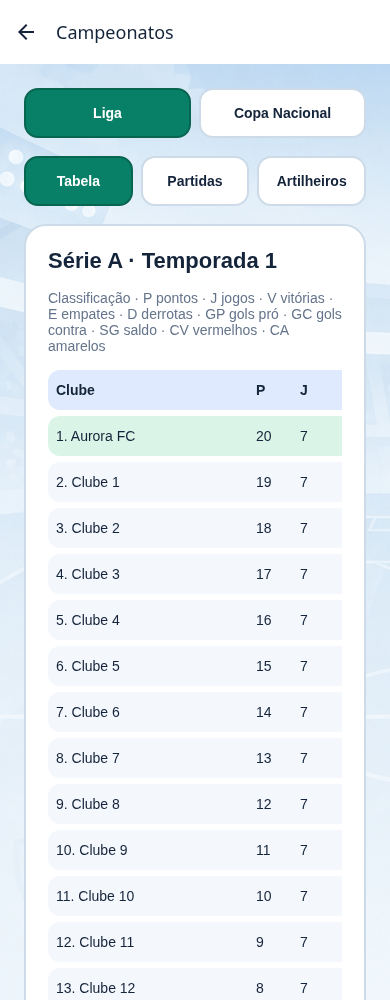
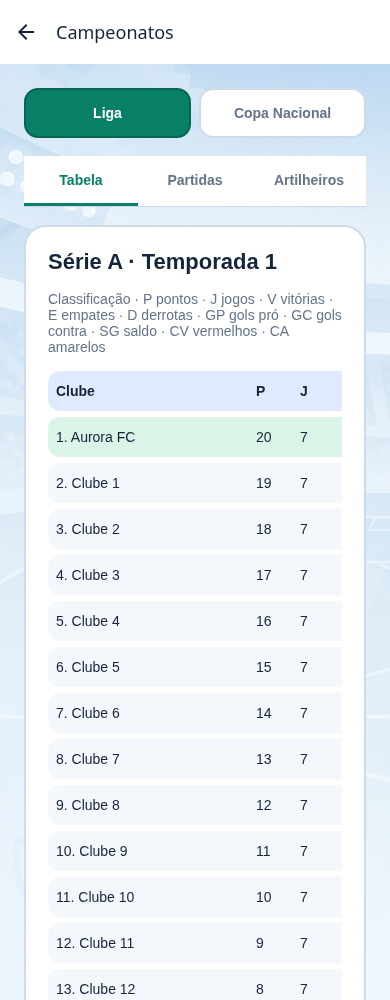
Use underlined competition tabs for v1.0.0.17

diff --git a/mobile/src/screens/CompetitionsScreen.tsx b/mobile/src/screens/CompetitionsScreen.tsx
@@ -8,8 +8,21 @@ import { cupService, Cup } from '../services/cupService';
 import { useClubStore } from '../stores/clubStore';
 import { ActionButton, Card, GamePage, palette, useAction } from '../components/GameUI';
 import { CompetitionStatistics } from '../components/CompetitionStatistics';
-function Tabs({ values, selected, onChange, disabled = false }: { values: string[]; selected: string; onChange: (value: string) => void; disabled?: boolean }) {
-  return <View style={{ flexDirection: 'row', gap: 8 }}>{values.map(value => <Pressable key={value} accessibilityRole="button" accessibilityState={{ selected: selected === value, disabled }} disabled={disabled} onPress={() => onChange(value)} style={{ flex: 1, minHeight: 50, paddingHorizontal: 4, borderRadius: 14, alignItems: 'center', justifyContent: 'center', backgroundColor: selected === value ? palette.primary : '#fff', borderWidth: 2, borderColor: selected === value ? '#086550' : palette.border }}><Text style={{ fontWeight: '700', color: selected === value ? '#fff' : palette.ink, textAlign: 'center' }}>{value}</Text></Pressable>)}</View>;
+function Tabs({ values, selected, onChange, disabled = false, buttons = false }: { values: string[]; selected: string; onChange: (value: string) => void; disabled?: boolean; buttons?: boolean }) {
+  return <View accessibilityRole={buttons ? undefined : 'tablist'} style={{ flexDirection: 'row', gap: buttons ? 8 : 0, backgroundColor: buttons ? 'transparent' : '#fff', borderBottomWidth: buttons ? 0 : 1, borderBottomColor: palette.border }}>
+    {values.map(value => {
+      const active = selected === value;
+      return <Pressable key={value} accessibilityRole={buttons ? 'button' : 'tab'} accessibilityState={{ selected: active, disabled }} disabled={disabled} onPress={() => onChange(value)} style={{
+        flex: 1, minHeight: 50, paddingHorizontal: 4, alignItems: 'center', justifyContent: 'center',
+        borderRadius: buttons ? 14 : 0,
+        backgroundColor: buttons && active ? palette.primary : '#fff',
+        borderWidth: buttons ? 2 : 0,
+        borderColor: buttons && active ? '#086550' : palette.border,
+        borderBottomWidth: buttons ? 2 : 3,
+        borderBottomColor: buttons ? active ? '#086550' : palette.border : active ? palette.primary : 'transparent',
+      }}><Text style={{ fontWeight: active ? '800' : '600', color: buttons && active ? '#fff' : active ? palette.primary : palette.muted, textAlign: 'center' }}>{value}</Text></Pressable>;
+    })}
+  </View>;
 }
 export function CompetitionsScreen({ navigation }: NativeStackScreenProps<RootStackParamList, 'Competitions'>) {
   const [kind, setKind] = useState<'league' | 'cup'>('league'), [league, setLeague] = useState<Competition | null>(null), [cup, setCup] = useState<Cup | null>(null), [matches, setMatches] = useState<CompetitionMatch[]>([]);
@@ -22,7 +35,7 @@ export function CompetitionsScreen({ navigation }: NativeStackScreenProps<RootSt
   }); }, [kind, run]);
   const columns = [{ title: 'Clube', width: 200 }, ...['P', 'J', 'V', 'E', 'D', 'GP', 'GC', 'SG', 'CV', 'CA'].map(title => ({ title, width: 44 }))];
   return <GamePage loading={action.busy} error={action.error}>
-    <Tabs disabled={action.busy} values={['Liga', 'Copa Nacional']} selected={kind === 'league' ? 'Liga' : 'Copa Nacional'} onChange={label => { setKind(label === 'Liga' ? 'league' : 'cup'); setTab('Tabela'); }} />
+    <Tabs buttons disabled={action.busy} values={['Liga', 'Copa Nacional']} selected={kind === 'league' ? 'Liga' : 'Copa Nacional'} onChange={label => { setKind(label === 'Liga' ? 'league' : 'cup'); setTab('Tabela'); }} />
     <Tabs values={['Tabela', 'Partidas', 'Artilheiros']} selected={tab} onChange={setTab} />
     {tab === 'Tabela' && kind === 'league' && league && <Card><Text style={{ fontSize: 22, fontWeight: '800', color: palette.ink }}>Série {league.division.name} · Temporada {league.season.number}</Text><Text style={{ color: palette.muted }}>Classificação · P pontos · J jogos · V vitórias · E empates · D derrotas · GP gols pró · GC gols contra · SG saldo · CV vermelhos · CA amarelos</Text>
       <ScrollView horizontal><View style={{ gap: 6 }}><View style={{ flexDirection: 'row', backgroundColor: '#e0eafe', borderRadius: 12, paddingVertical: 12 }}>{columns.map(column => <Text key={column.title} style={{ width: column.width, paddingHorizontal: 8, fontWeight: '800', color: palette.ink }}>{column.title}</Text>)}</View>

diff --git a/mobile/src/__tests__/reorganization.test.tsx b/mobile/src/__tests__/reorganization.test.tsx
@@ -24,11 +24,14 @@ test('championship owns table, games, reports and cup rankings', async () => {
   const navigate = jest.fn();
   await render(<CompetitionsScreen {...({ navigation: { navigate } } as unknown as NativeStackScreenProps<RootStackParamList, 'Competitions'>)} />);
   await screen.findByText('1. Aurora');
+  expect(screen.getByRole('tab', { name: 'Tabela', selected: true })).toBeTruthy();
+  expect(screen.queryByRole('button', { name: 'Partidas' })).toBeNull();
   expect(screen.getByText('GP')).toBeTruthy();
   expect(screen.getByText('GC')).toBeTruthy();
   expect(screen.getByText('CV')).toBeTruthy();
   expect(screen.getByText('CA')).toBeTruthy();
-  await fireEvent.press(screen.getByText('Partidas'));
+  await fireEvent.press(screen.getByRole('tab', { name: 'Partidas' }));
+  expect(screen.getByRole('tab', { name: 'Partidas', selected: true })).toBeTruthy();
   await fireEvent.press(screen.getByText('Ver relatório'));
   expect(navigate).toHaveBeenCalledWith('MatchReport', { id: 'match' });
   await fireEvent.press(screen.getByText('Copa Nacional'));
